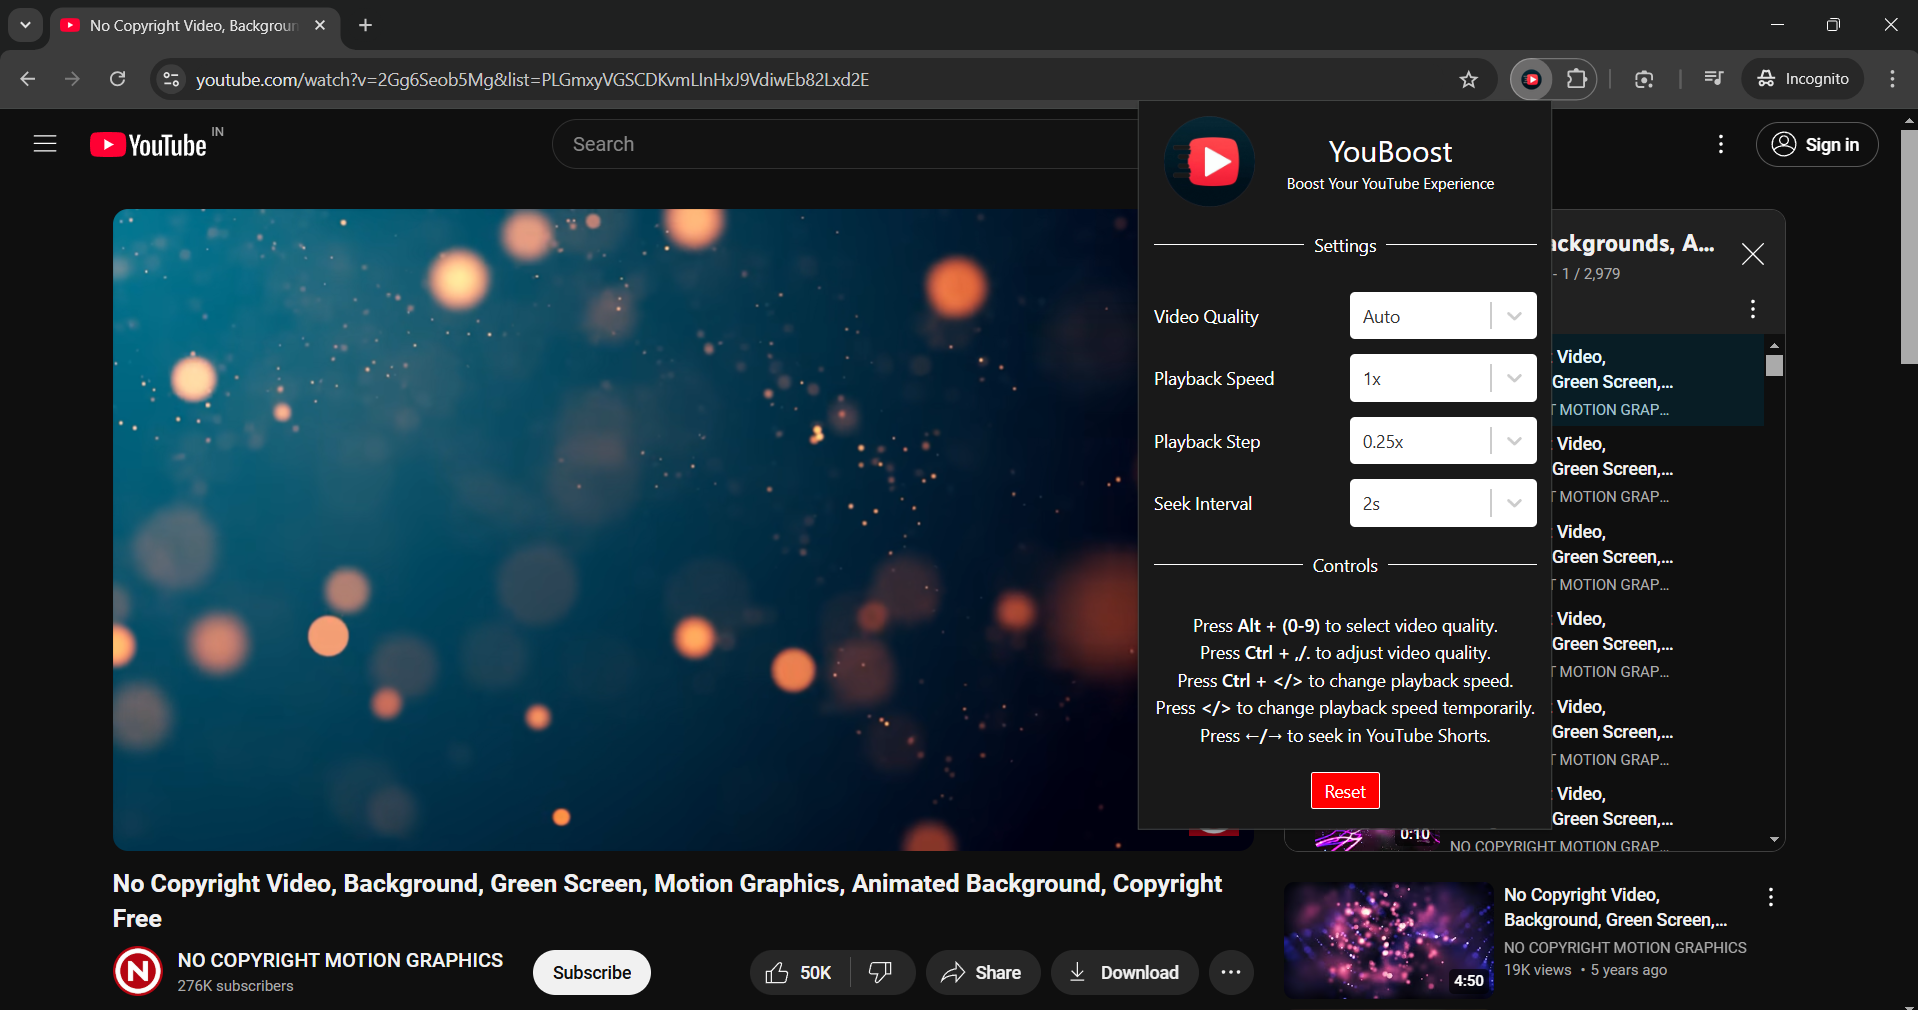
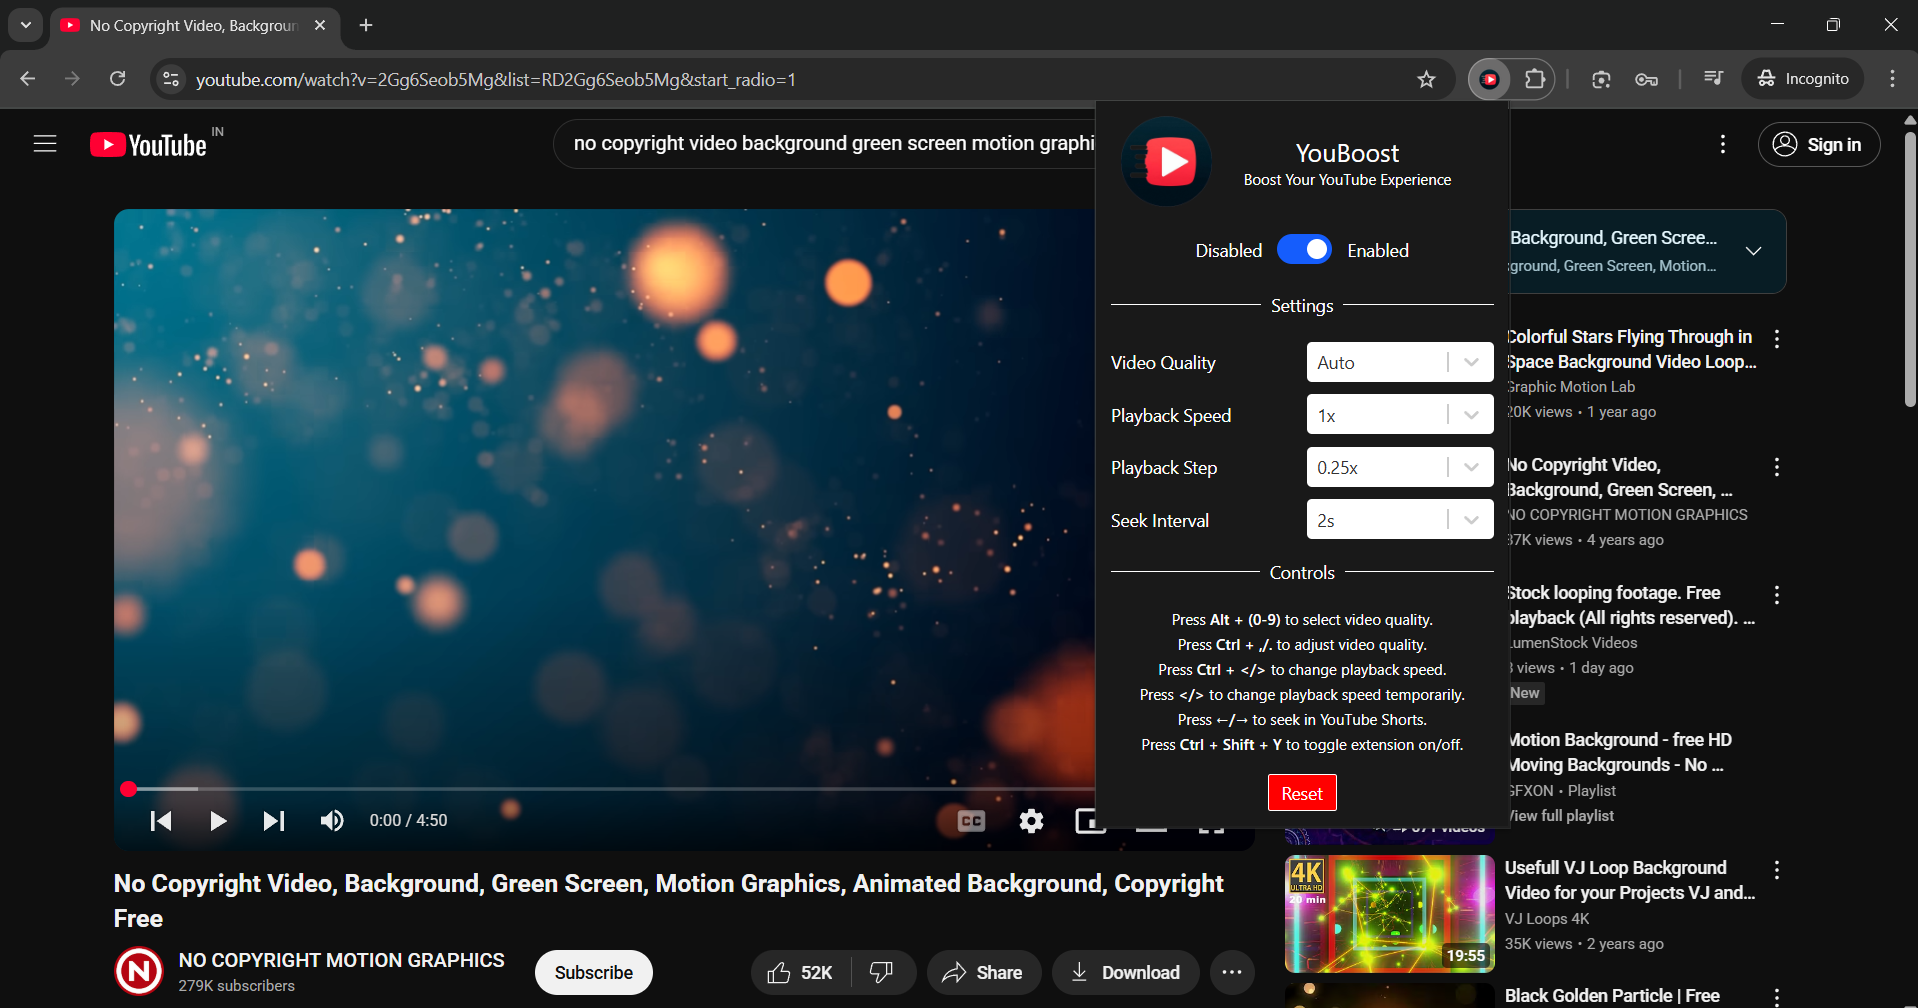
feat: add enable/disable toggle to control settings and actions

diff --git a/src/App.tsx b/src/App.tsx
@@ -1,12 +1,13 @@
 import { useEffect, useMemo, useState } from "react";
 import { getStorage, setData } from "./modules/storage";
-import { qualityConfig, rateConfig, seekConfig, stepConfig } from "./constants";
+import { enableConfig, qualityConfig, rateConfig, seekConfig, stepConfig } from "./constants";
 import Select from "./components/Select";
 import { arrToOptions, rateToLabel, round, timeToLabel } from "./modules/functions";
 import Header from "./components/Header";
 import { youboost } from "./types/youboost";
 
 export default function App() {
+  const [enabled, setEnabled] = useState(enableConfig.default);
   const [quality, setQuality] = useState(qualityConfig.default);
   const [rate, setRate] = useState(rateConfig.default);
   const [seek, setSeek] = useState(seekConfig.default);
@@ -23,7 +24,8 @@ export default function App() {
   }, [rate, step]);
   const rateOptions = useMemo(() => arrToOptions(rates, rateToLabel), [rates]);
 
-  function setState({ quality, rate, seek, step }: youboost.partialData) {
+  function setState({ enabled, quality, rate, seek, step }: youboost.partialData) {
+    if (enabled !== undefined) setEnabled(enabled);
     if (quality) setQuality(quality);
     if (rate) setRate(rate);
     if (seek) setSeek(seek);
@@ -40,6 +42,7 @@ export default function App() {
   }
 
   useEffect(() => {
+    getStorage("enabled", enableConfig.default).then(setEnabled);
     getStorage("quality", qualityConfig.default).then(setQuality);
     getStorage("rate", rateConfig.default).then(setRate);
     getStorage("seek", seekConfig.default).then(setSeek);
@@ -49,16 +52,27 @@ export default function App() {
   }, []);
 
   return (
-    <div className="p-3 pb-4 space-y-5 text-white text-sm">
+    <div className="p-3 pb-3 space-y-4 text-white text-sm">
       <div className="grid grid-cols-4 items-center px-2">
         <img src="logo.png" alt="YouBoost logo" className="self" />
-        <div className="col-span-3 text-center space-y-0.5">
-          <h2 className="text-2xl">YouBoost</h2>
+        <div className="col-span-3 text-center">
+          <h2 className="text-xl">YouBoost</h2>
           <h4 className="text-xs">Boost Your YouTube Experience</h4>
         </div>
       </div>
+
+      <div className="flex items-center justify-center space-x-3 py-1.5">
+        <span className={`text-sm ${!enabled ? "text-gray-400" : ""}`}>Disabled</span>
+        <label className="relative inline-flex h-6 w-11 items-center rounded-full cursor-pointer">
+          <input type="checkbox" checked={enabled} onChange={() => updateData({ enabled: !enabled })} className="peer sr-only" />
+          <div className="relative inline-flex h-6 w-11 items-center rounded-full transition-colors duration-200 focus:outline-none focus:ring-2 focus:ring-blue-500 focus:ring-offset-2 bg-gray-600 peer-checked:bg-blue-600" />
+          <span className="absolute inline-block h-4 w-4 transform rounded-full bg-white transition-transform duration-200 translate-x-1 peer-checked:translate-x-6" />
+        </label>
+        <span className={`text-sm ${!enabled ? "text-gray-400" : ""}`}>Enabled</span>
+      </div>
+
       <Header text="Settings" />
-      <div className="grid grid-cols-2 items-center gap-x-2 gap-y-3">
+      <div className={`grid grid-cols-2 items-center gap-x-2 gap-y-2.5 ${!enabled ? "opacity-50 pointer-events-none" : ""}`}>
         <Select
           text="Video Quality"
           options={qualityConfig.options}
@@ -70,8 +84,9 @@ export default function App() {
         <Select text="Playback Step" options={stepConfig.options} value={step} label={rateToLabel(step)} onChange={(step) => updateData({ step: step!.value })} />
         <Select text="Seek Interval" options={seekConfig.options} value={seek} label={timeToLabel(seek)} onChange={(seek) => updateData({ seek: seek!.value })} />
       </div>
+
       <Header text="Controls" />
-      <div className="text-sm text-center space-y-0.5">
+      <div className={`text-xs text-center space-y-1 ${!enabled ? "opacity-50" : ""}`}>
         <div>
           Press <span className="font-semibold">{"Alt + (0-9)"}</span> to select video quality.
         </div>
@@ -87,9 +102,13 @@ export default function App() {
         <div>
           Press <span className="font-semibold">←/→</span> to seek in YouTube Shorts.
         </div>
+        <div>
+          Press <span className="font-semibold">{"Ctrl + Shift + Y"}</span> to toggle extension on/off.
+        </div>
       </div>
+
       <button
-        className="block mx-auto bg-[red] py-1 px-2.5 rounded-xs border border-white hover:bg-[rgba(255,0,0,0.6)]"
+        className={`block mx-auto bg-[red] py-1 px-2.5 text-sm rounded-xs border border-white hover:bg-[rgba(255,0,0,0.6)] ${!enabled ? "opacity-50 pointer-events-none" : ""}`}
         onClick={() => updateData({ quality: qualityConfig.default, rate: rateConfig.default, seek: seekConfig.default, step: stepConfig.default })}
       >
         Reset

diff --git a/src/script.ts b/src/script.ts
@@ -7,7 +7,7 @@ import { youtube } from "./types/youtube";
 let timeout: NodeJS.Timeout;
 let onDataChange: EventListener = () => {};
 
-window.addEventListener("initData", (({ detail: { quality, rate, rateConfig, seek, step, type } }: CustomEvent<youboost.extendedData>) => {
+window.addEventListener("initData", (({ detail: { enabled, quality, rate, rateConfig, seek, step, type } }: CustomEvent<youboost.extendedData>) => {
   const player = document.getElementById(type) as Player;
   if (!player) return;
 
@@ -31,7 +31,19 @@ window.addEventListener("initData", (({ detail: { quality, rate, rateConfig, see
     }, 1000);
   }
 
+  function restoreDefaults() {
+    video.playbackRate = rateConfig.default;
+    player.setPlaybackQualityRange(qualityConfig.default, qualityConfig.default);
+  }
+
+  function applySettings(initial = false) {
+    if (!initial || video.playbackRate === rateConfig.default) video.playbackRate = rate;
+    player.setPlaybackQualityRange(quality, quality);
+  }
+
   function changeRate(difference: number) {
+    if (!enabled) return;
+
     rate += difference;
     rate = Math.min(Math.max(round(rate), rateConfig.min), rateConfig.max);
     window.dispatchEvent(new CustomEvent<youboost.partialData>("dataChangedKey", { detail: { rate } }));
@@ -42,6 +54,8 @@ window.addEventListener("initData", (({ detail: { quality, rate, rateConfig, see
   function changeQuality(quality: youtube.VideoQuality): void;
   function changeQuality(step: number): void;
   function changeQuality(quality: youtube.VideoQuality | number) {
+    if (!enabled) return;
+
     const { default: defaultQuality, labels, total, values } = qualityConfig;
     if (typeof quality === "string") {
       qualityIndex = values.indexOf(quality);
@@ -57,6 +71,9 @@ window.addEventListener("initData", (({ detail: { quality, rate, rateConfig, see
 
   function handleKeyPress(event: KeyboardEvent) {
     keys[event.key as Key] = event.type === "keydown";
+
+    if (!enabled) return;
+
     if (keys["Control"]) {
       if (keys["."]) changeQuality(-1);
       else if (keys[","]) changeQuality(1);
@@ -72,6 +89,18 @@ window.addEventListener("initData", (({ detail: { quality, rate, rateConfig, see
   }
 
   onDataChange = (({ detail }: CustomEvent<youboost.partialData>) => {
+    if (detail.enabled !== undefined) {
+      enabled = detail.enabled;
+      if (enabled) {
+        displayText("YouBoost Enabled");
+        return applySettings();
+      }
+      displayText("YouBoost Disabled");
+      return restoreDefaults();
+    }
+
+    if (!enabled) return;
+
     if (detail.quality) {
       quality = detail.quality;
       qualityIndex = qualityConfig.values.indexOf(quality);
@@ -88,8 +117,9 @@ window.addEventListener("initData", (({ detail: { quality, rate, rateConfig, see
   window.addEventListener("dataChangedUI", onDataChange);
   player.onkeydown = handleKeyPress;
   player.onkeyup = handleKeyPress;
-  video.playbackRate = rate;
-  player.setPlaybackQualityRange(quality, quality);
+
+  if (enabled) applySettings(true);
+
   video.focus();
 }) as EventListener);
 

diff --git a/src/components/Select.tsx b/src/components/Select.tsx
@@ -4,7 +4,7 @@ import { SelectProps } from "../types/global";
 export default function Select<T>({ text, options, value, label, onChange }: SelectProps<T>) {
   return (
     <>
-      <span>{text}</span>
+      <span className="text-sm">{text}</span>
       <ReactSelect
         options={options}
         value={{ value, label }}
@@ -17,11 +17,30 @@ export default function Select<T>({ text, options, value, label, onChange }: Sel
             ...base,
             border: "none",
             outline: isFocused ? "1.5px solid red" : "none",
+            minHeight: "32px",
+            height: "32px",
             ":hover": { border: "none", outline: isFocused ? "1.5px solid red" : "none" },
+          }),
+          valueContainer: (base) => ({
+            ...base,
+            height: "32px",
+            padding: "0 6px",
+          }),
+          input: (base) => ({
+            ...base,
+            margin: "0px",
+          }),
+          indicatorsContainer: (base) => ({
+            ...base,
+            height: "32px",
           }),
           menu: (base) => ({ ...base, border: "1px solid white", borderRadius: "5px" }),
           menuList: (base) => ({ ...base, backgroundColor: "black", borderRadius: "5px" }),
-          option: (base, { isSelected, isFocused }) => ({ ...base, backgroundColor: isSelected ? "red" : isFocused ? "rgba(255,0,0,0.6)" : "black" }),
+          option: (base, { isSelected, isFocused }) => ({
+            ...base,
+            backgroundColor: isSelected ? "red" : isFocused ? "rgba(255,0,0,0.6)" : "black",
+            minHeight: "28px",
+          }),
         }}
       />
     </>

diff --git a/src/inject.ts b/src/inject.ts
@@ -2,7 +2,7 @@
 // script.src = chrome.runtime.getURL("src/script.js");
 // (document.head || document.documentElement).appendChild(script);
 
-import { qualityConfig, rateConfig, seekConfig, stepConfig } from "./constants";
+import { enableConfig, qualityConfig, rateConfig, seekConfig, stepConfig } from "./constants";
 import { getStorage, setData } from "./modules/storage";
 import scriptSrc from "./script?script&module";
 import { youboost } from "./types/youboost";
@@ -21,12 +21,19 @@ async function dispatchInitData() {
   else if (window.location.pathname.startsWith("/shorts")) type = "shorts-player";
   if (!type) return;
 
-  const quality = await getStorage("quality", qualityConfig.default);
-  const rate = await getStorage("rate", rateConfig.default);
-  const seek = await getStorage("seek", seekConfig.default);
-  const step = await getStorage("step", stepConfig.default);
-
-  window.dispatchEvent(new CustomEvent<youboost.extendedData>("initData", { detail: { quality, rate, rateConfig, seek, step, type } }));
+  window.dispatchEvent(
+    new CustomEvent<youboost.extendedData>("initData", {
+      detail: {
+        enabled: await getStorage("enabled", enableConfig.default),
+        quality: await getStorage("quality", qualityConfig.default),
+        rate: await getStorage("rate", rateConfig.default),
+        rateConfig,
+        seek: await getStorage("seek", seekConfig.default),
+        step: await getStorage("step", stepConfig.default),
+        type,
+      },
+    })
+  );
 }
 
 if (document.readyState === "complete" || document.readyState === "interactive") dispatchInitData();

diff --git a/src/background.ts b/src/background.ts
@@ -1,13 +1,24 @@
 import { matchPatterns } from "./constants";
+import { getStorage, setData } from "./modules/storage";
 
-chrome.runtime.onInstalled.addListener(() =>
-  chrome.tabs.query({ url: matchPatterns }, (tabs) => {
-    for (const { id } of tabs) {
-      if (id === undefined) return;
-      chrome.scripting.executeScript({
-        target: { tabId: id },
-        files: ["./assets/inject.ts-loader.js"],
-      });
-    }
-  })
-);
+chrome.runtime.onInstalled.addListener(async () => {
+  const tabs = await chrome.tabs.query({ url: matchPatterns });
+  for (const { id } of tabs) {
+    if (id === undefined) continue;
+    chrome.scripting.executeScript({ target: { tabId: id }, files: ["./assets/inject.ts-loader.js"] });
+  }
+});
+
+chrome.commands.onCommand.addListener(async (command) => {
+  switch (command) {
+    case "toggle-extension":
+      const enabled = await getStorage("enabled", true);
+      await setData({ enabled: !enabled });
+      const tabs = await chrome.tabs.query({ url: matchPatterns });
+      for (const { id } of tabs) {
+        if (id === undefined) continue;
+        chrome.tabs.sendMessage(id, { enabled: !enabled });
+      }
+      break;
+  }
+});

diff --git a/src/components/Header.tsx b/src/components/Header.tsx
@@ -2,9 +2,9 @@ import { HeaderProps } from "../types/global";
 
 export default function Header({ text }: HeaderProps) {
   return (
-    <div className="flex items-center justify-center pb-2">
+    <div className="flex items-center justify-center pb-1">
       <div className="w-full border-t border-white"></div>
-      <span className="px-2 text-center">{text}</span>
+      <span className="px-2 text-center text-sm">{text}</span>
       <div className="w-full border-t border-white"></div>
     </div>
   );

diff --git a/src/modules/storage.ts b/src/modules/storage.ts
@@ -14,7 +14,8 @@ export async function resetStorage() {
   chrome.storage.local.clear();
 }
 
-export async function setData({ quality, rate, seek, step }: youboost.partialData) {
+export async function setData({ enabled, quality, rate, seek, step }: youboost.partialData) {
+  if (enabled !== undefined) setStorage("enabled", enabled);
   if (quality) setStorage("quality", quality);
   if (rate) setStorage("rate", rate);
   if (seek) setStorage("seek", seek);

diff --git a/manifest.config.ts b/manifest.config.ts
@@ -41,4 +41,13 @@ export default defineManifest({
       run_at: "document_start",
     },
   ],
+  commands: {
+    "toggle-extension": {
+      suggested_key: {
+        default: "Ctrl+Shift+Y",
+        mac: "Command+Shift+Y",
+      },
+      description: "Toggle YouBoost extension on/off",
+    },
+  },
 });

diff --git a/src/constants.ts b/src/constants.ts
@@ -16,6 +16,8 @@ const qualityLabels: QualityLabels = {
   tiny: "144p",
 };
 
+export const enableConfig = { default: true };
+
 export const qualityConfig = createQualityConfig(qualityLabels);
 
 export const rateConfig = { default: 1, max: 4, min: 0.25 };

diff --git a/src/types/youboost.d.ts b/src/types/youboost.d.ts
@@ -3,6 +3,7 @@ import { youtube } from "./youtube";
 
 export namespace youboost {
   export type data = {
+    enabled: boolean;
     quality: youtube.VideoQuality;
     rate: number;
     seek: number;
